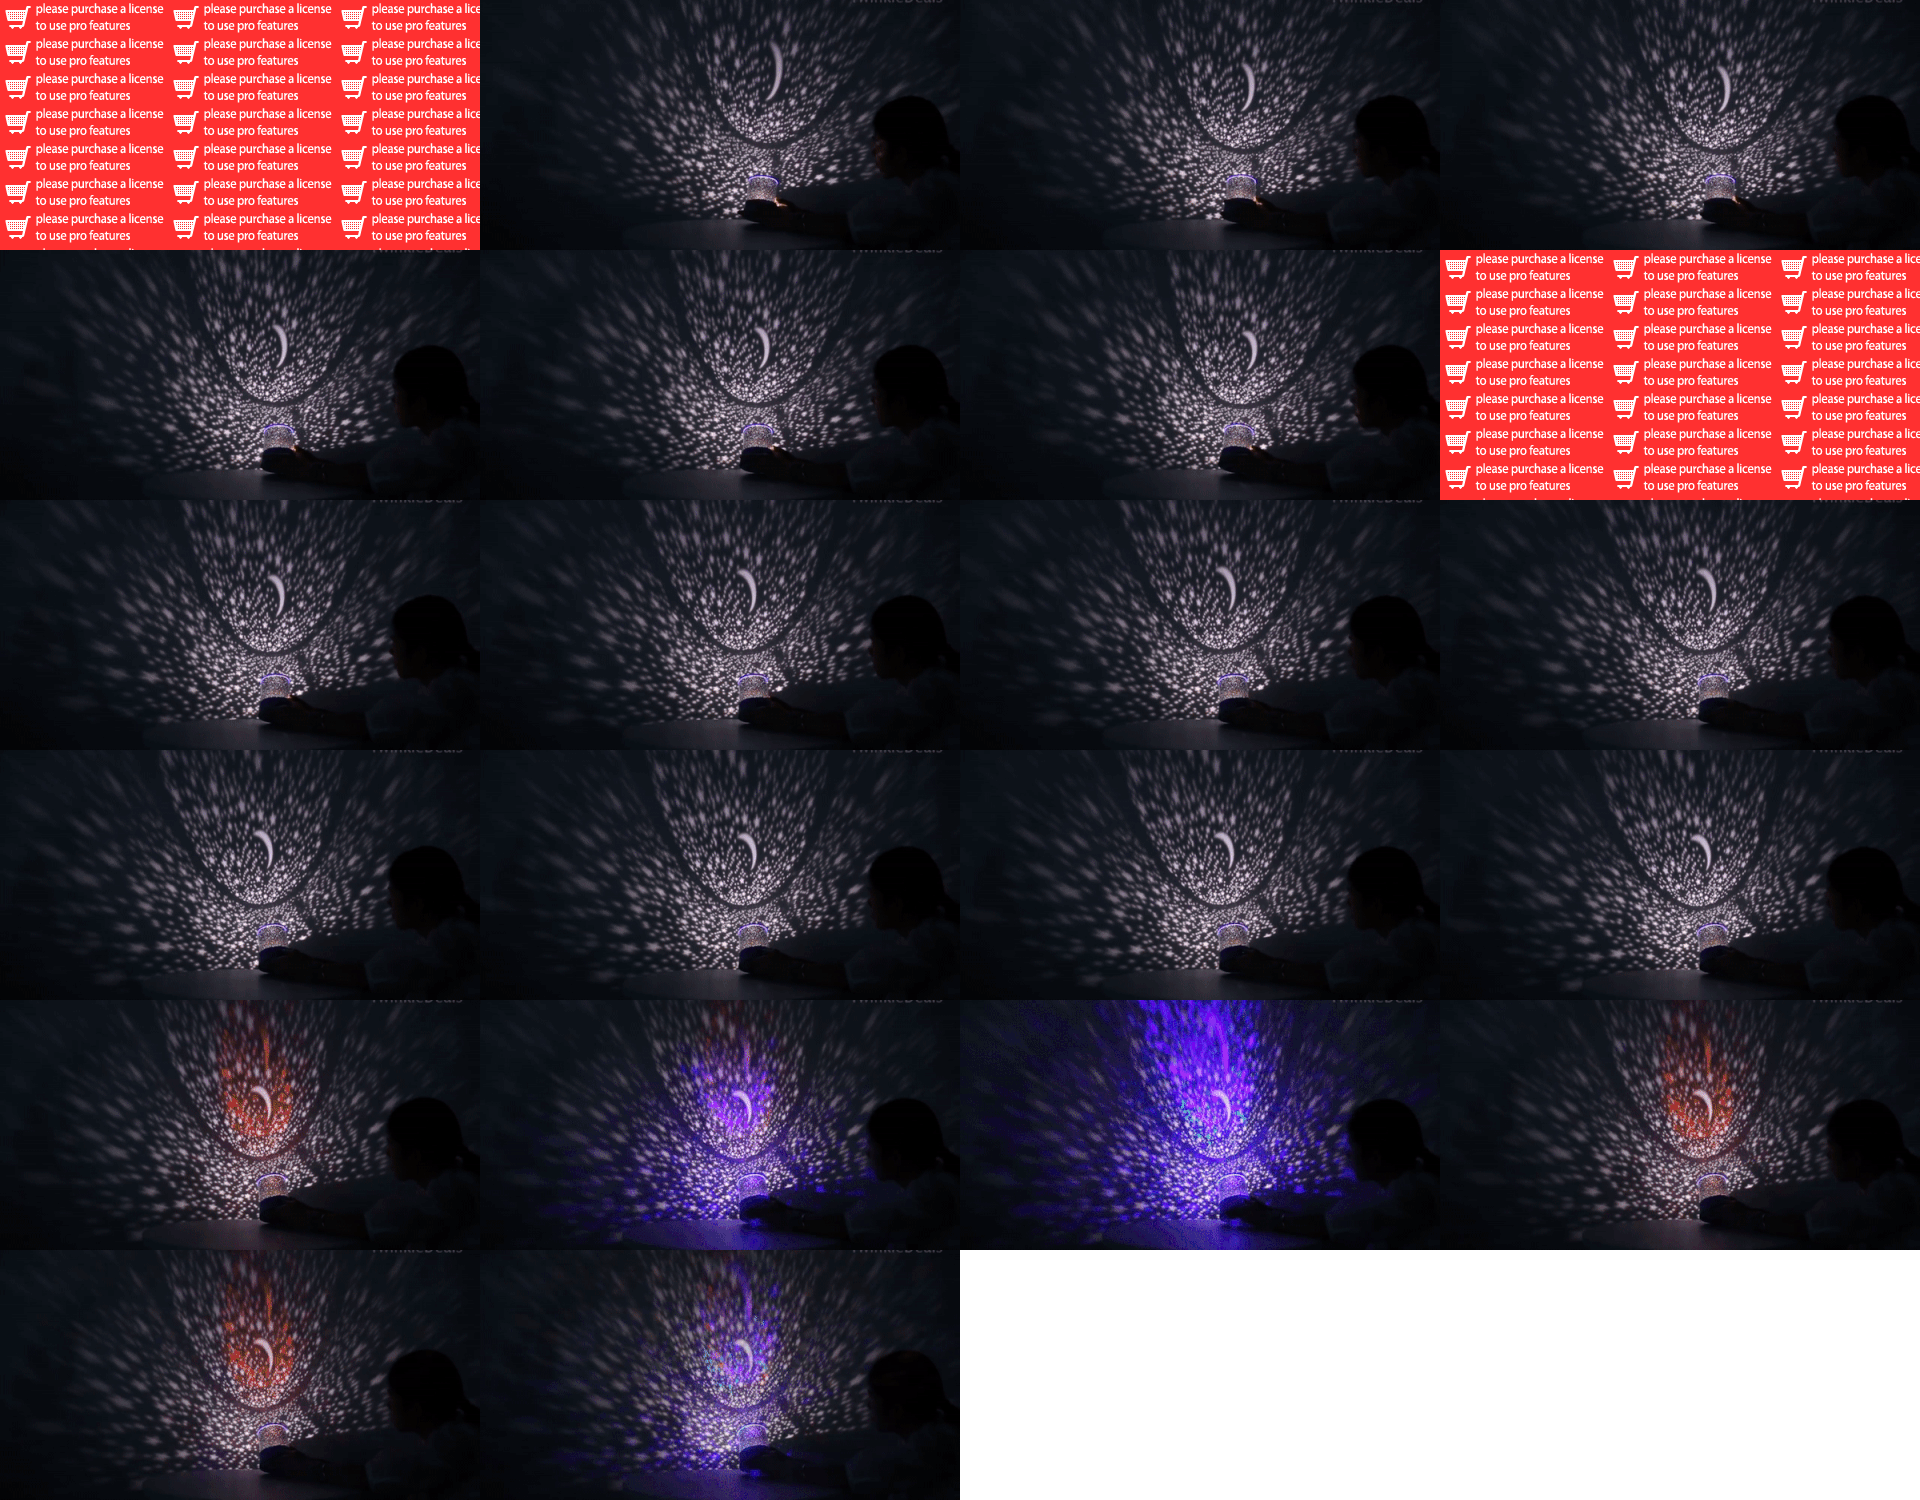
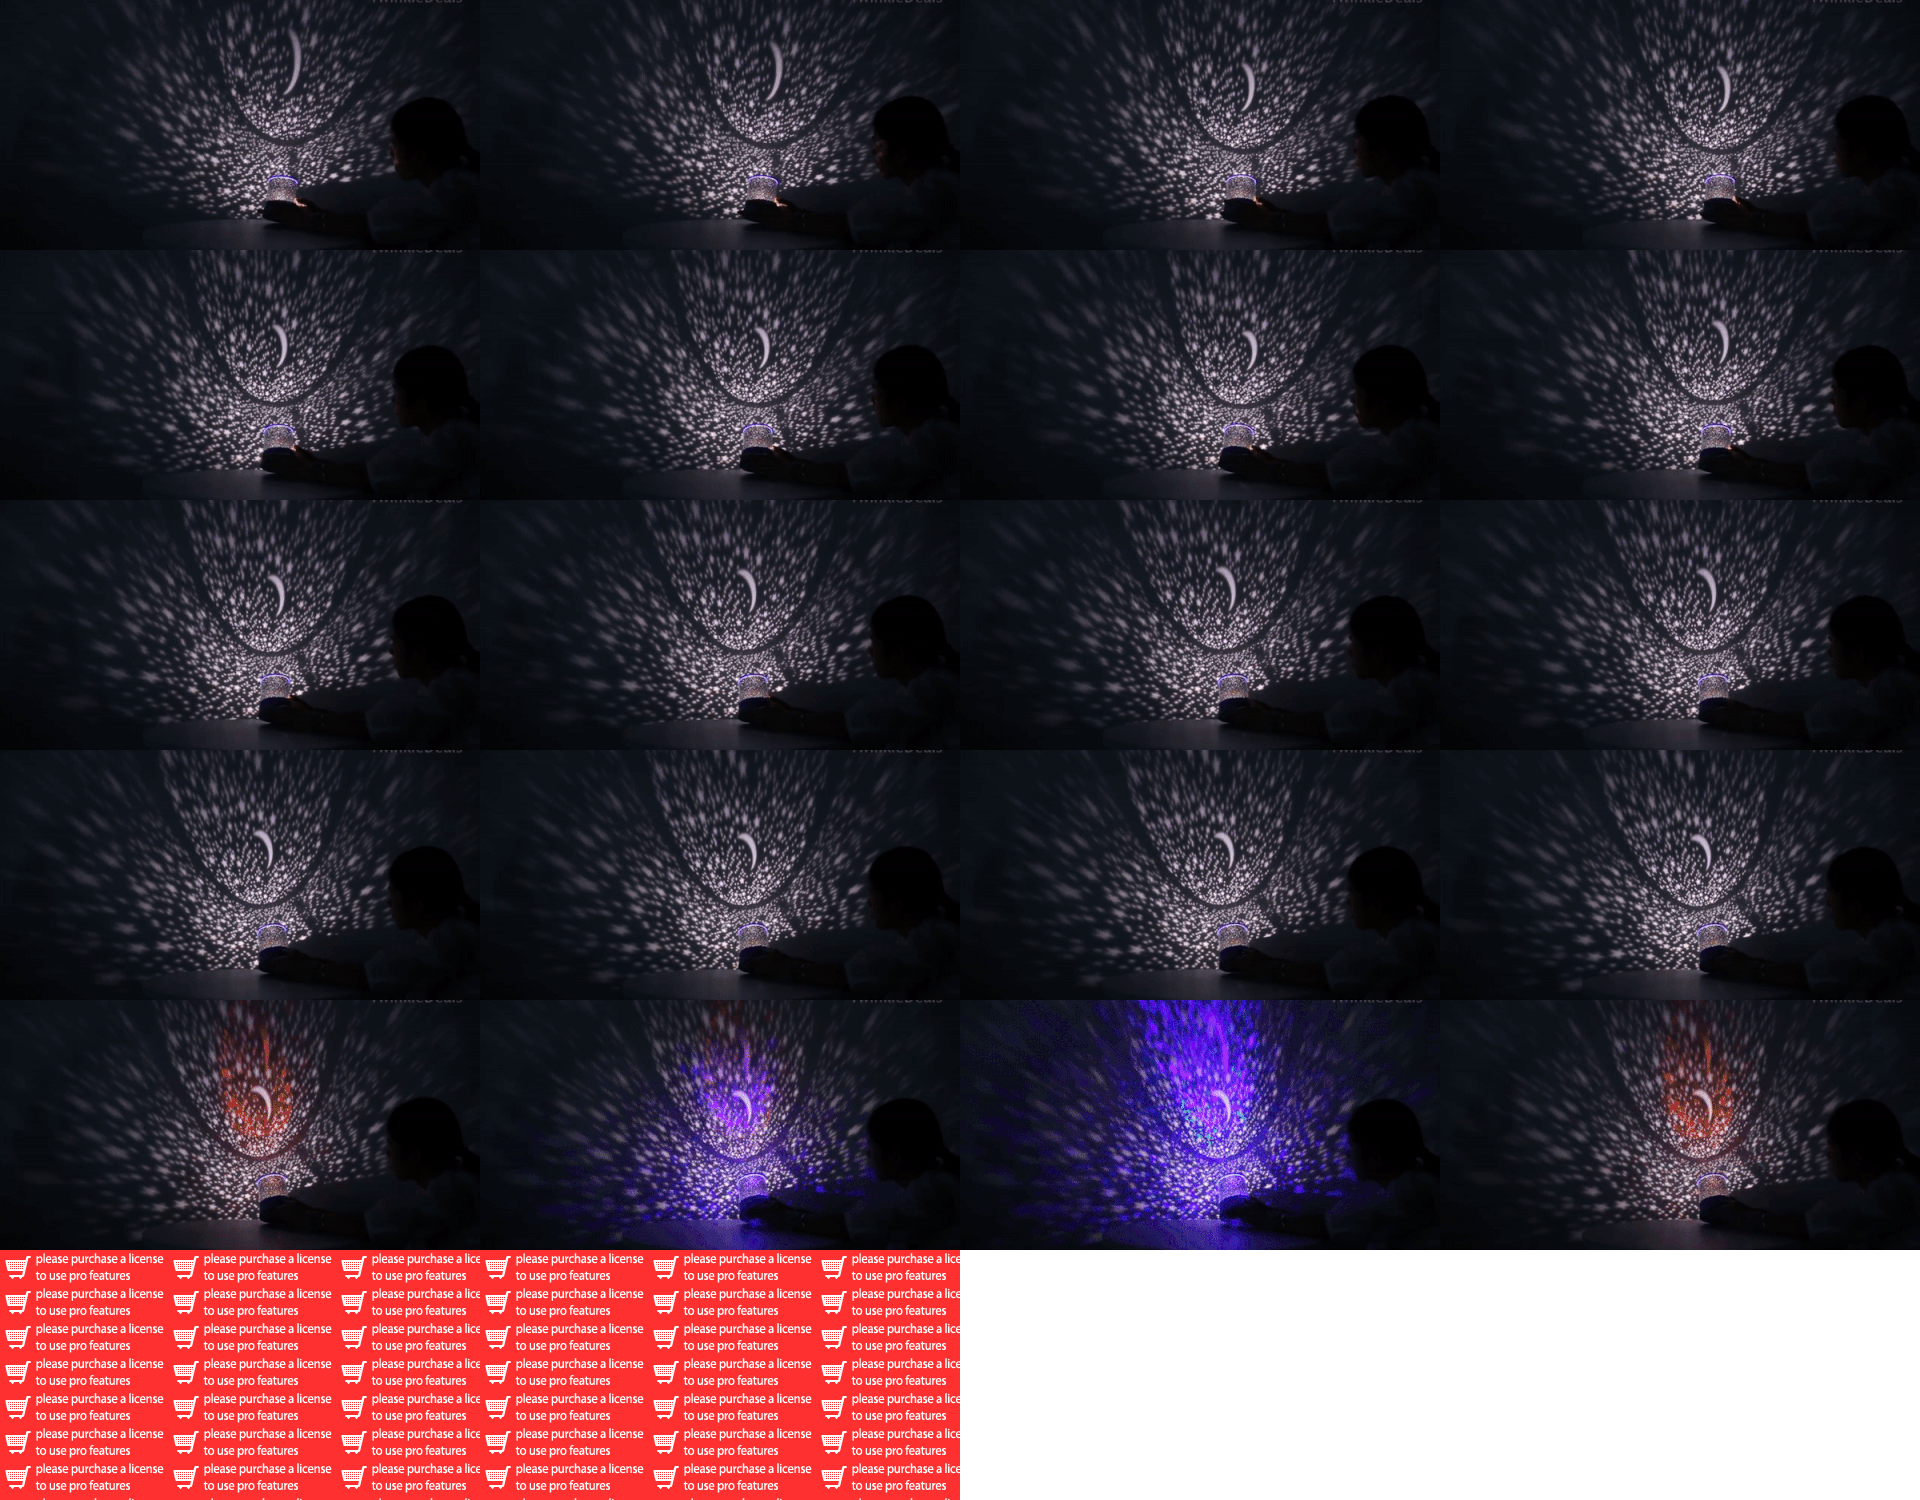
Add credit 2

Changed region(s): [[0.0, 0.828, 0.5, 1.0], [0.75, 0.1533, 1.0, 0.3373], [0.0, 0.0, 0.25, 0.184]]

diff --git a/src/scenes/Credit2Scene.js b/src/scenes/Credit2Scene.js
@@ -2,6 +2,9 @@ import 'phaser'
 import {CREDIT_2, CREDIT_3} from "../TheWatcher";
 import creditTopPng from "../assets/title/2/2-top.png";
 import creditBottomPng from "../assets/title/2/2-bottom.png";
+import imageHimPng from "../assets/title/2/him.png";
+import imageAnim2Png from "../assets/title/2/star.png";
+import * as imageAnim2Json from "../assets/title/2/star.json";
 
 export default class Credit1Scene extends Phaser.Scene {
     constructor() {
@@ -11,14 +14,19 @@ export default class Credit1Scene extends Phaser.Scene {
     preload() {
         this.load.image('top2', creditTopPng)
         this.load.image('bottom2', creditBottomPng)
+        this.load.atlas('imageAnim2', imageAnim2Png, imageAnim2Json)
+        this.load.image('imageHim2', imageHimPng)
     }
 
     create() {
         this.add.image(450, 300, 'creditsBg')
-        this.add.text(100, 300, CREDIT_2, { fontSize: '30px' })
 
-        this.add.image(450, 60, 'top2')
-        this.add.image(450, 540, 'bottom2')
+        this.anims.create({key: 'starAnim', frames: this.anims.generateFrameNames('imageAnim2'), repeat: -1, frameRate: 12})
+        this.add.sprite(450, 300, 'imageAnim2').play('starAnim')
+        this.add.image(450, 300, 'imageHim2')
+
+        this.add.image(450, 85, 'top2')
+        this.add.image(450, 515, 'bottom2')
 
         this.input.keyboard.on('keydown-SPACE', () => {
             this.cameras.main.fadeOut(500)
